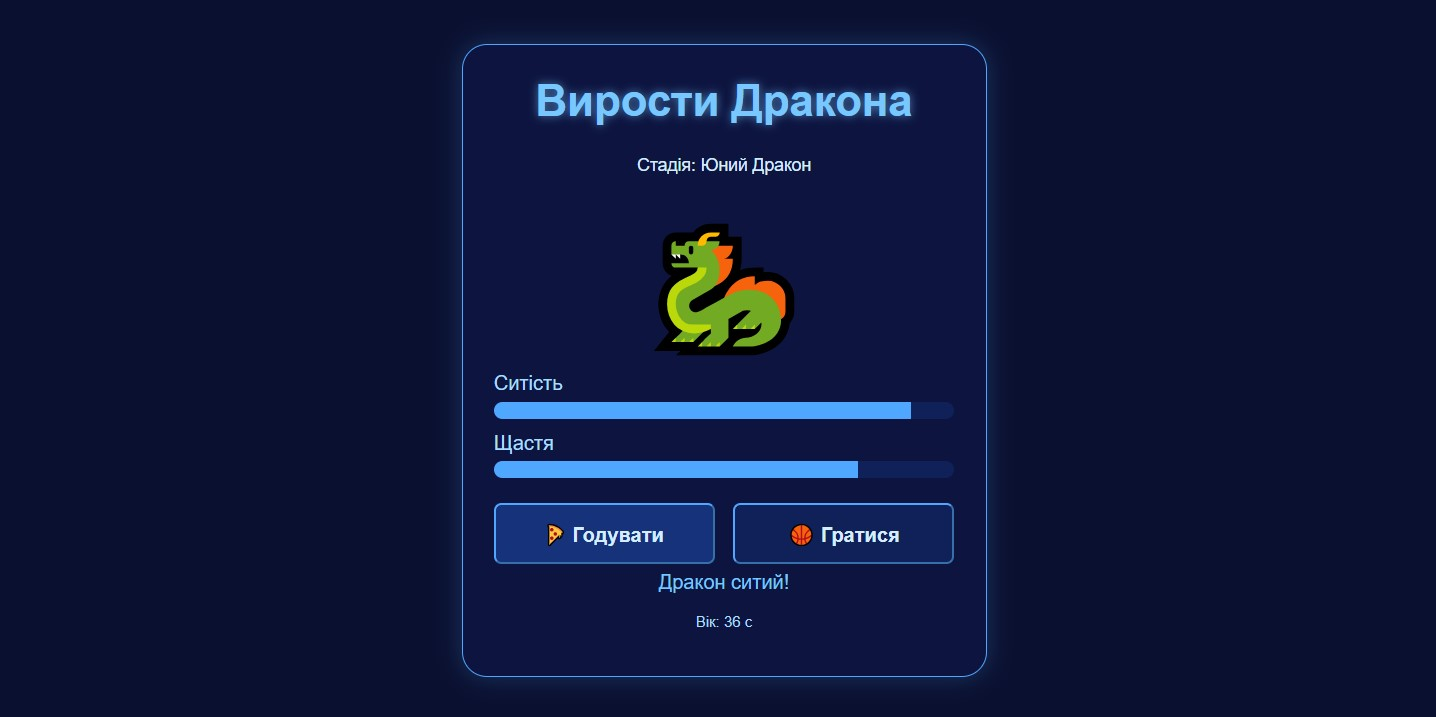
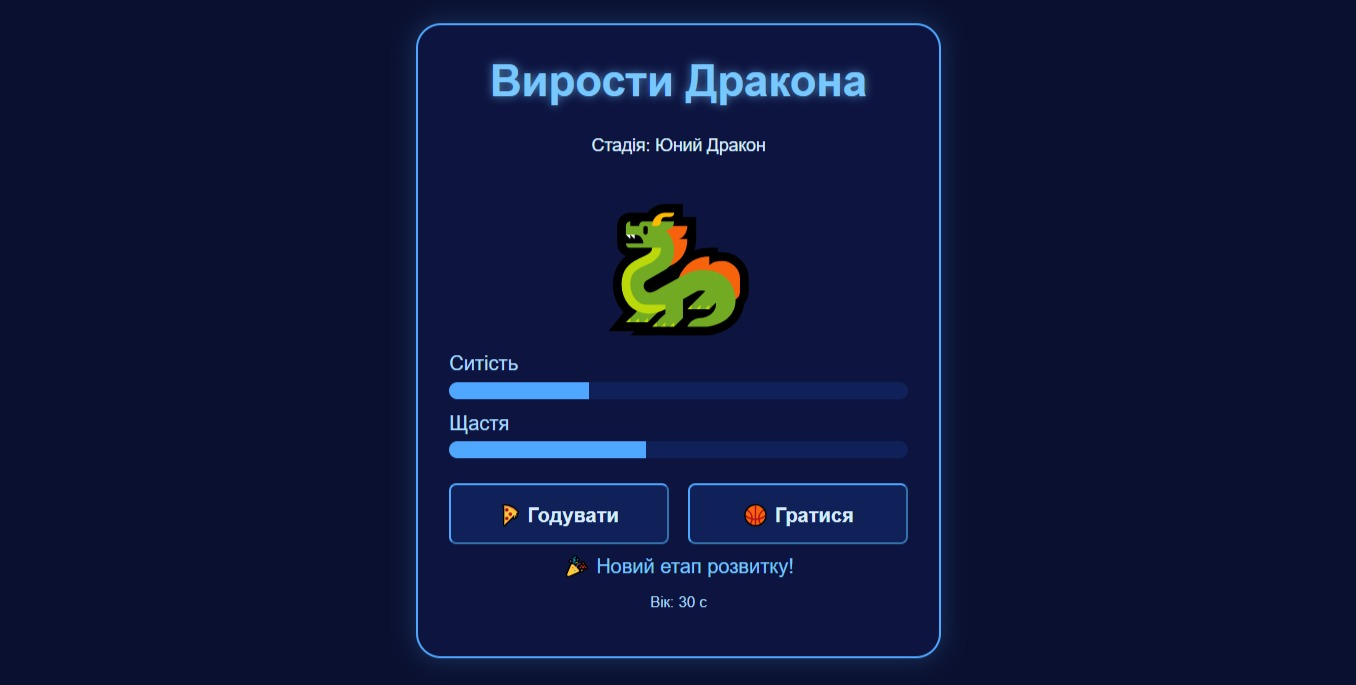
.

Changed region(s): [[0.3097, 0.0307, 0.7124, 0.981], [0.3407, 0.092, 0.6504, 0.2453], [0.4336, 0.2759, 0.5575, 0.5212]]

diff --git a/raise-a-dragon.html b/raise-a-dragon.html
@@ -72,7 +72,7 @@
 
         background: var(--panel);
         border-radius: 20px;
-        border: 1px solid var(--accent);
+        border: 2px solid var(--accent);
 
         box-shadow: 0 0 20px var(--shadow-accent);
       }
